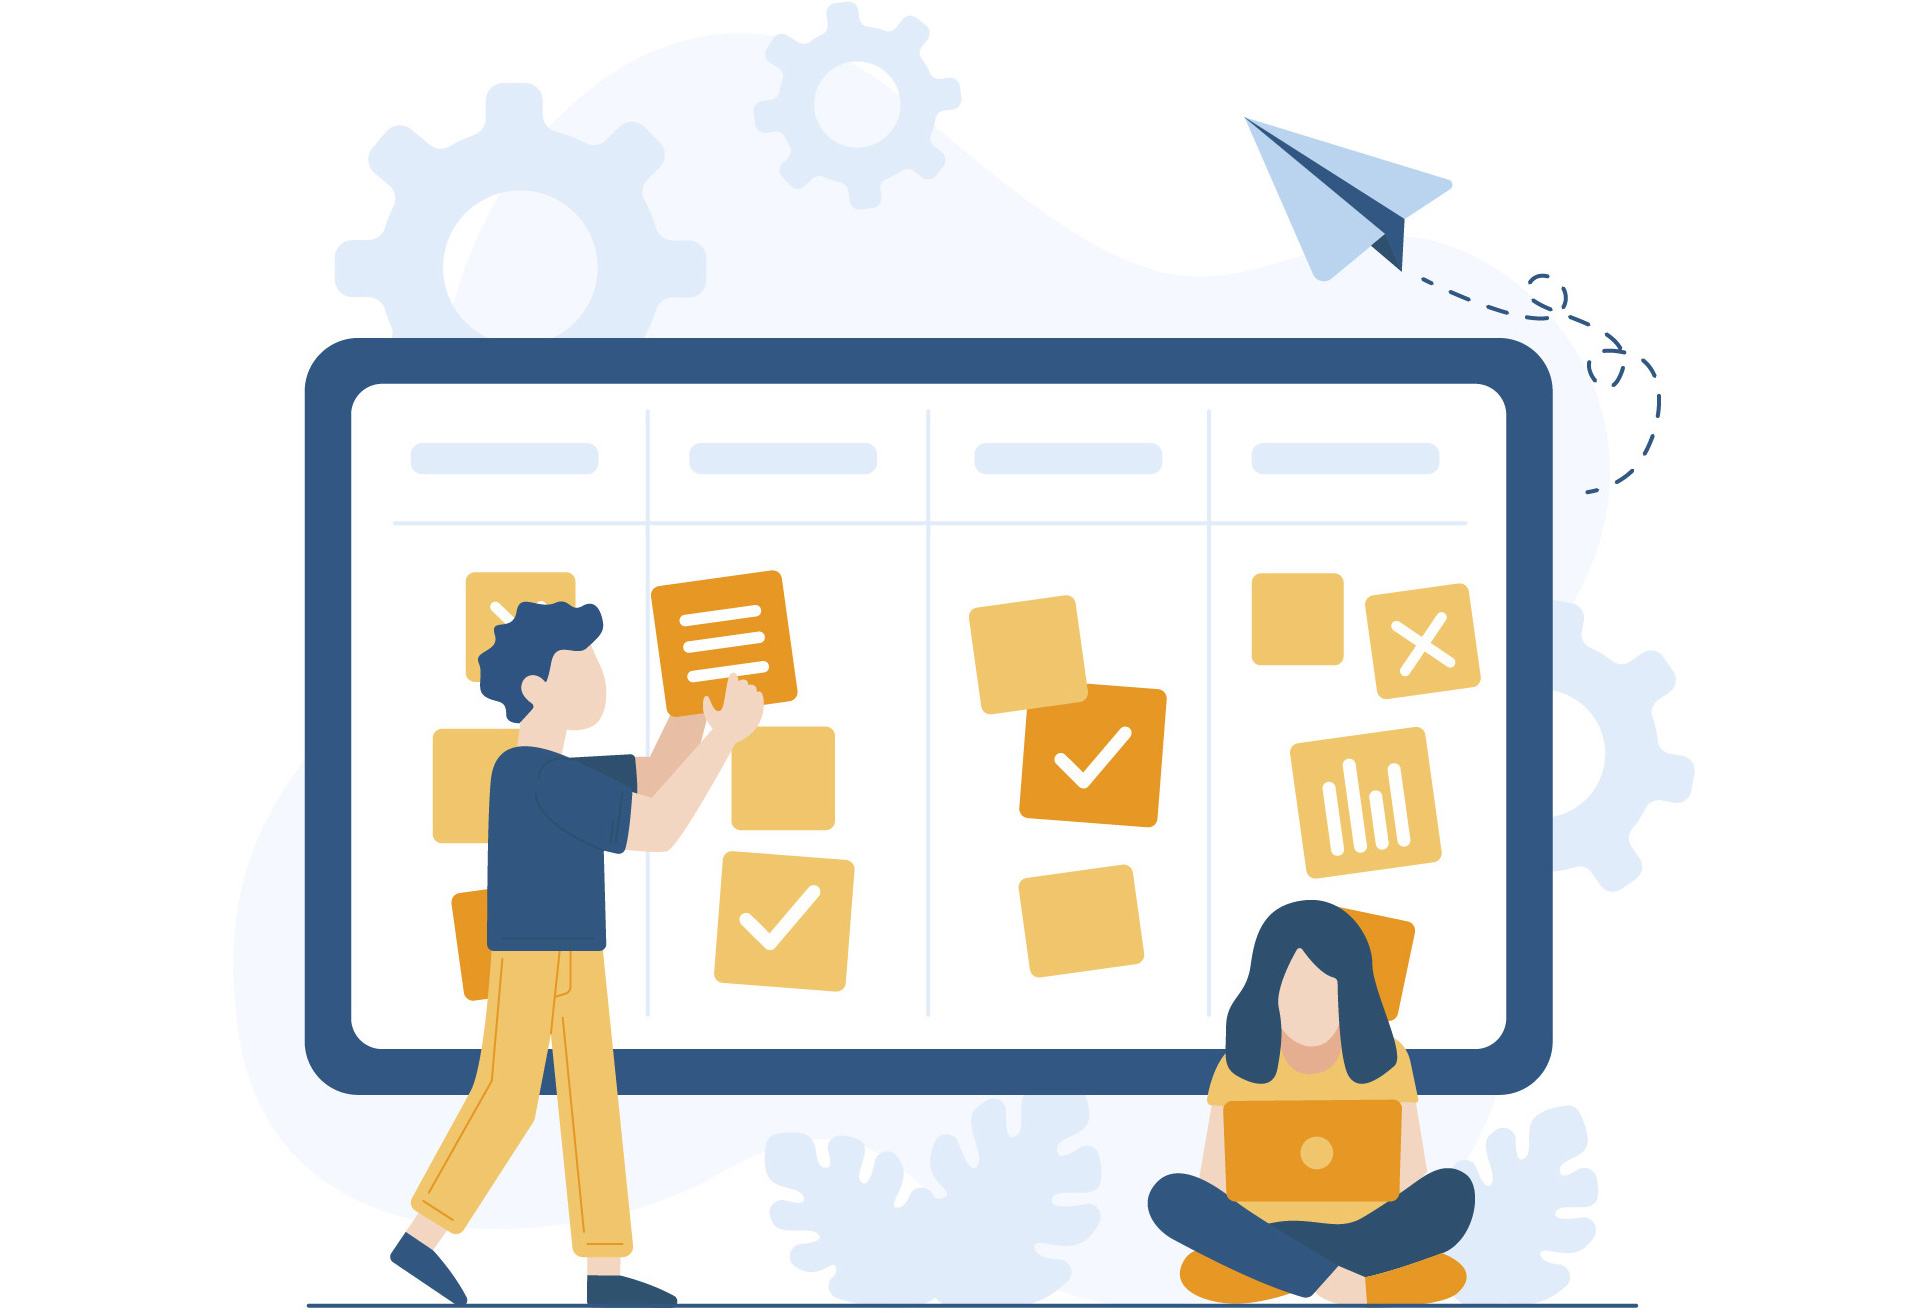
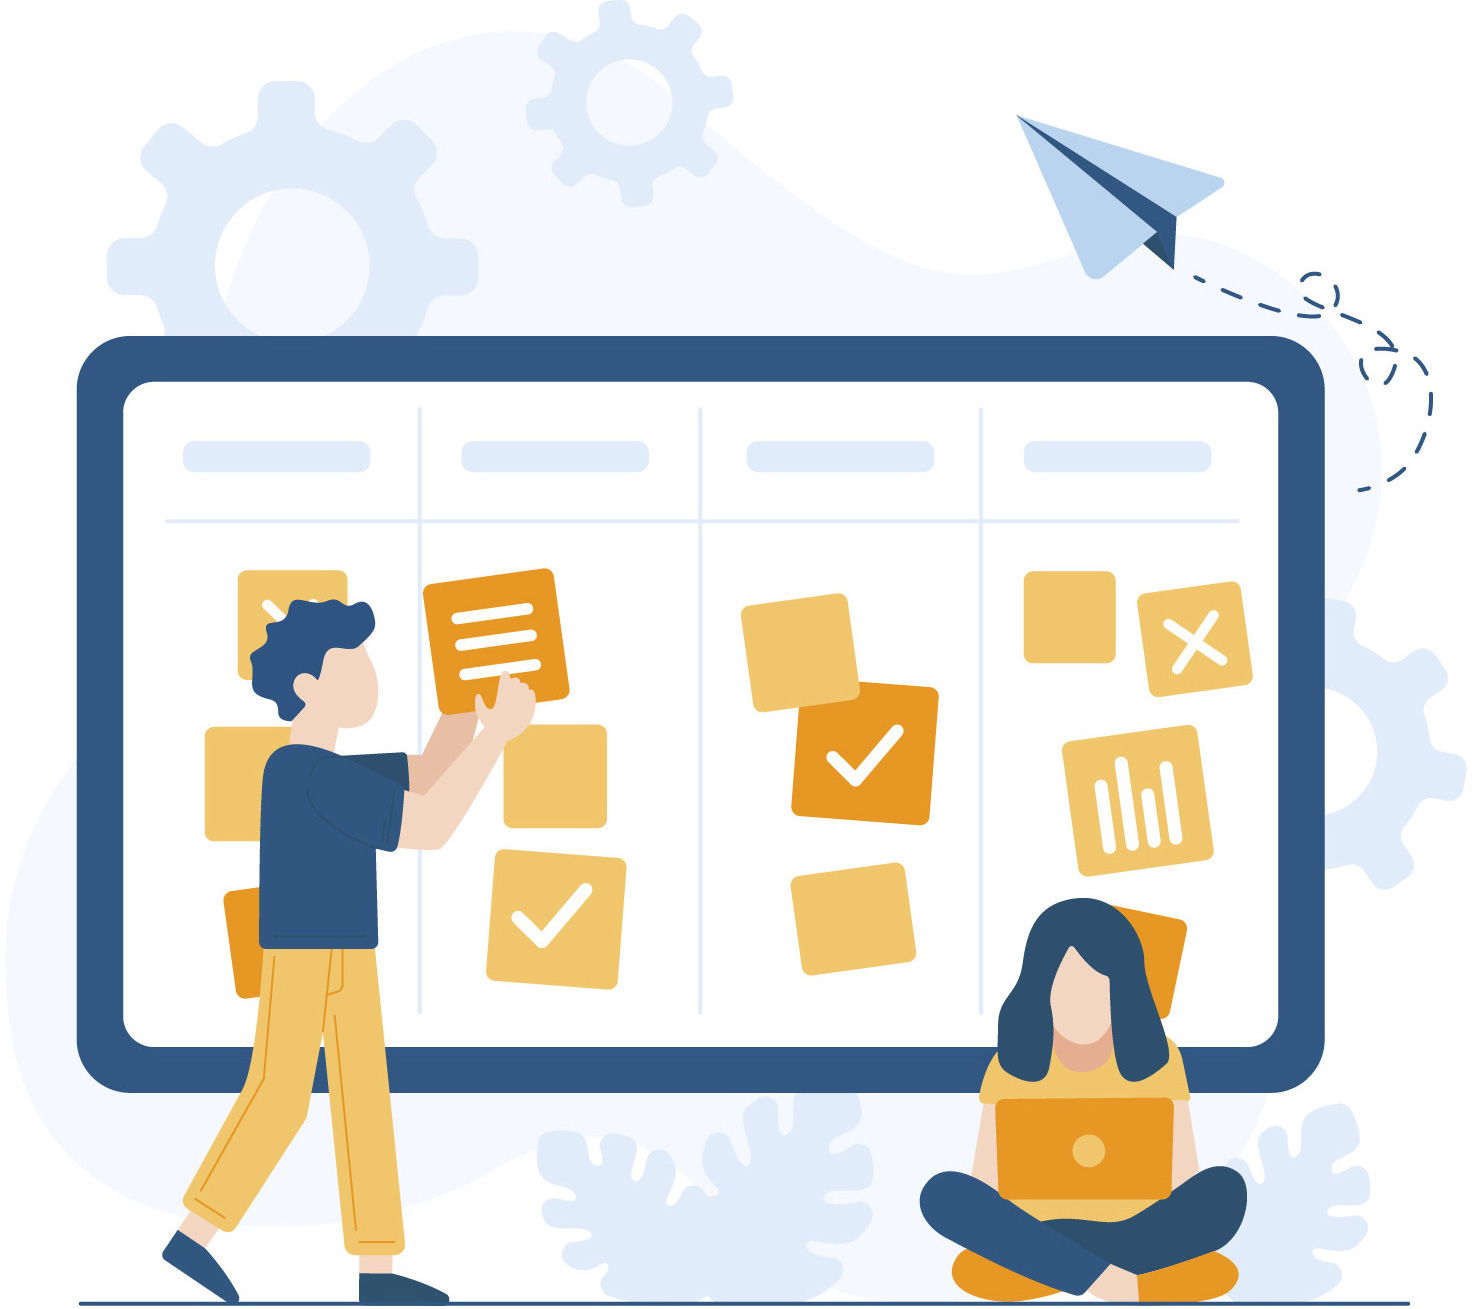
Finished styling of home page

diff --git a/src/App.module.css b/src/App.module.css
@@ -7,7 +7,17 @@
 }
 
 .todoWrapper {
-    padding: 100px 0;
+    padding: 70px 0;
+    display: flex;
+    flex-direction: column;
+    align-items: center;
+}
+
+.wrap {
+    min-height: calc(100vh - 140px);
+    display: flex;
+    flex-direction: column;
+    justify-content: center;
 }
 
 .homePageWrapper {
@@ -19,11 +29,11 @@
 }
 
 .mainImage {
-    width: 651px;
+    width: 450px;
 }
 
 .startButton {
-    margin-left: 20px;
+    margin-left: 12px;
     margin-top: 10px;
 }
 
@@ -33,7 +43,7 @@
 
 h1 {
     font-weight: 400;
-    font-size: 96px;
+    font-size: 92px;
     line-height: 52px;
     color: rgba(255, 128, 64, 1);
     text-align: center;
@@ -49,29 +59,38 @@ h1 {
 }
 
 @media (max-width: 760px) {
+    .todoWrapper, .homePageWrapper {
+        padding: 40px 0;
+    }
+
     h1 {
         font-size: 62px;
+        margin-top: 20px;
     }
+
     .startButton {
         width: 210px;
         margin-top: 0;
         margin-left: 10px;
     }
+
     .mainImage {
         width: 380px;
     }
 }
 
-@media (max-width: 370px) {
+@media (max-width: 400px) {
     h1 {
         font-size: 58px;
     }
+
     .startButton {
         width: 200px;
         margin-top: 0;
         margin-left: 10px;
     }
+
     .mainImage {
-        width: 360px;
+        width: 300px;
     }
 }

diff --git a/src/App.js b/src/App.js
@@ -276,6 +276,7 @@ const App = () => {
 
     return <BrowserRouter>
         <Header/>
+        <div className={`${s.wrap}`}>
         <Routes>
             <Route path={'/'} element={<Navigate to={PATH.HOME}/>}/>
             <Route path={PATH.TODO_APP} element={<div className={`${s.todoWrapper} ${s.container}`}>
@@ -294,6 +295,7 @@ const App = () => {
             </div>}/>
             <Route path="/*" element={<>Error 404</>}/>
         </Routes>
+        </div>
         <Footer/>
     </BrowserRouter>
 }

diff --git a/src/components/Footer.js b/src/components/Footer.js
@@ -9,8 +9,7 @@ const Footer = () => {
     const thisYear = today.getFullYear();
     return (
         <div className={s.footer}>
-            <div className={c.container}>
-        <ul>
+        <ul className={c.container}>
             <li>
                 <a
                     href="https://github.com/katsiarynalashcheuskaya"
@@ -35,7 +34,6 @@ const Footer = () => {
                 </li>
         </ul>
             </div>
-        </div>
     );
 };
 

diff --git a/src/components/TodoList.js b/src/components/TodoList.js
@@ -4,7 +4,7 @@ import c from "../App.module.css";
 
 const TodoList = ({todoList, onRemoveTodo, tasks, onRemoveTask, onAddTask, changeTaskStatus}) => {
     return (
-        <ul className={c.container}>
+        <ul>
             {todoList.map(t => {
                 return <TodoListItem key={t.id} id={t.id} todo={t.title}
                                      tasks={tasks} onRemoveTodo={onRemoveTodo} onRemoveTask={onRemoveTask}

diff --git a/src/index.css b/src/index.css
@@ -4,13 +4,18 @@
   padding: 0;
 }
 
+html {
+  height: 100%;
+}
+
 body {
   font-family: 'Roboto', sans-serif;
   font-style: normal;
+  align-content: center;
   display: flex;
   flex-direction: column;
-  /*min-height: 100vh;
-  height: 100%;*/
+  min-height: 100%;
+  position: relative;
 }
 
 code {

diff --git a/src/components/Footer.module.css b/src/components/Footer.module.css
@@ -2,6 +2,7 @@
     height: 70px;
     background-color: rgba(5, 86, 134, 1);
     width: 100%;
+    bottom: 0;
 }
 
 .footer ul {
